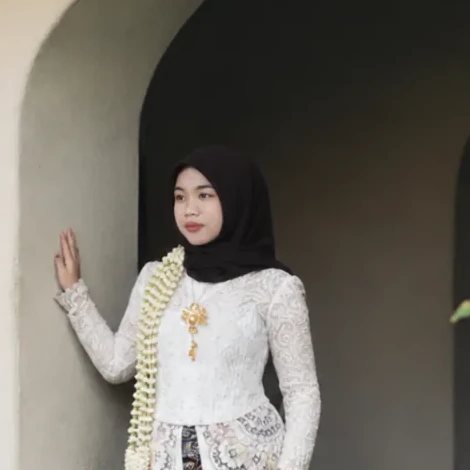
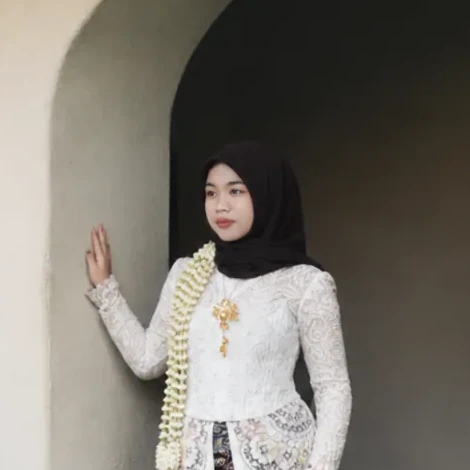
perbesar foto mempelai, hapus carousel 1

diff --git a/index.html b/index.html
@@ -423,28 +423,6 @@
 
                             <h2 class="font-esthetic text-center py-2 m-0" style="font-size: 2.25rem;">Bingkai Bahagia</h2>
 
-                            <div id="carousel-image-one" data-aos="fade-up" data-aos-duration="1500" class="carousel slide mt-4" data-bs-ride="carousel" data-bs-touch="true">
-                                <div class="carousel-indicators">
-                                    <button type="button" data-bs-target="#carousel-image-one" data-bs-slide-to="0" class="active" aria-current="true" aria-label="Slide 1"></button>
-                                    <button type="button" data-bs-target="#carousel-image-one" data-bs-slide-to="1" aria-label="Slide 2"></button>
-                                    <button type="button" data-bs-target="#carousel-image-one" data-bs-slide-to="2" aria-label="Slide 3"></button>
-                                </div>
-
-                                <div class="carousel-inner rounded-4">
-                                    <div class="carousel-item active">
-                                        <img src="./assets/images/4.webp" alt="image 1" class="d-block img-fluid cursor-pointer" onclick="undangan.guest.modal(this)">
-                                    </div>
-                                    <div class="carousel-item">
-                                        <img src="./assets/images/5.webp" alt="image 2" class="d-block img-fluid cursor-pointer" onclick="undangan.guest.modal(this)">
-                                    </div>
-                                    <div class="carousel-item">
-                                        <img src="./assets/images/6.webp" alt="image 3" class="d-block img-fluid cursor-pointer" onclick="undangan.guest.modal(this)">
-                                    </div>
-                                </div>
-
-
-                            </div>
-
                             <div id="carousel-image-two" data-aos="fade-up" data-aos-duration="1500" class="carousel slide mt-4" data-bs-ride="carousel" data-bs-touch="true">
                                 <div class="carousel-indicators">
                                     <button type="button" data-bs-target="#carousel-image-two" data-bs-slide-to="0" class="active" aria-current="true" aria-label="Slide 1"></button>

diff --git a/css/ornament.css b/css/ornament.css
@@ -891,7 +891,8 @@
    Kedua gambar sudah dibuat persegi dengan pusat lingkaran di tengah.
    groom: jari-jari dalam ±27% lebar gambar, bride: ±24% */
 .photo-wreath-half {
-    margin: 0.5rem auto 0.5rem;
+    margin: 0.5rem 0 0.5rem 50%;
+    translate: -50% 0; /* tetap di tengah walau sedikit lebih lebar dari kolom */
 }
 
 .photo-wreath-half .photo-wreath-photo {
@@ -900,10 +901,10 @@
     border: 2px solid #e2c794;
 }
 
-.photo-wreath-groom { width: min(18.5rem, 86vw); }
+.photo-wreath-groom { width: min(20.5rem, 95vw); }
 .photo-wreath-groom .photo-wreath-photo { width: 52.5% !important; }
 
-.photo-wreath-bride { width: min(20.5rem, 92vw); }
+.photo-wreath-bride { width: min(22.75rem, 105vw); }
 .photo-wreath-bride .photo-wreath-photo { width: 46.5% !important; }
 
 .photo-wreath-half .photo-wreath-frame {
